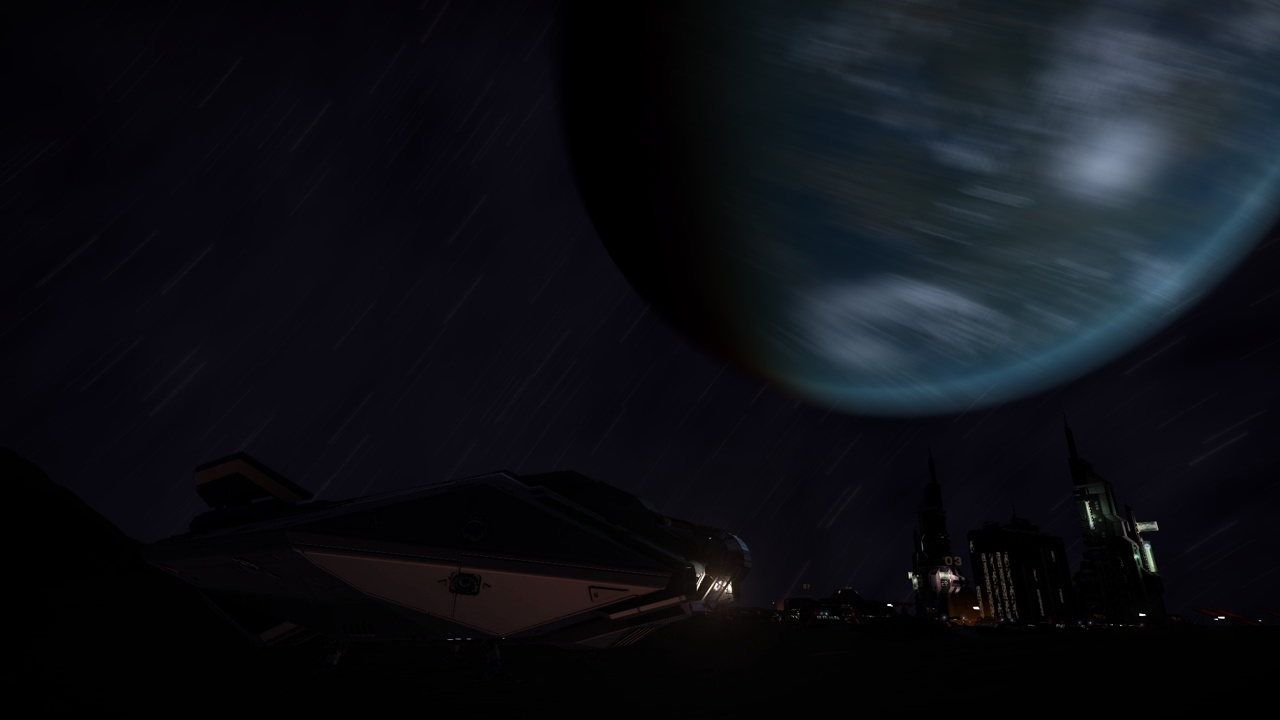
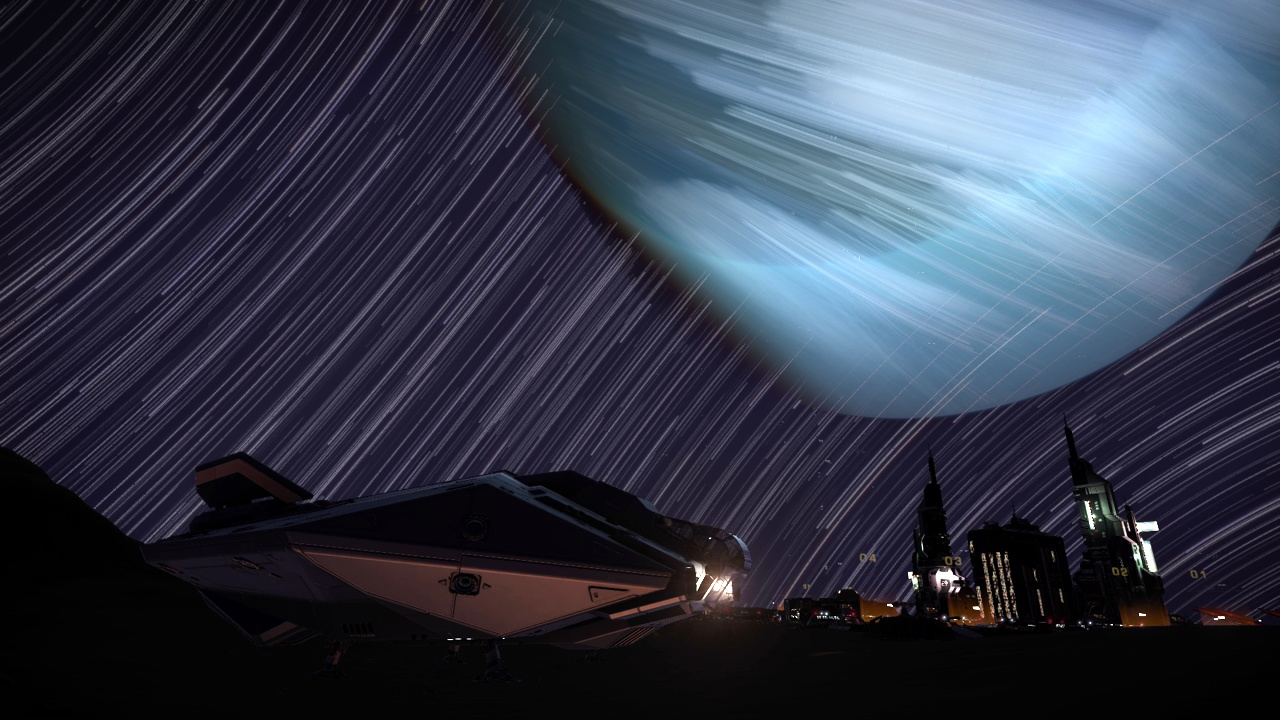
working with some values. needs cleanup

diff --git a/main.py b/main.py
@@ -1,7 +1,7 @@
 import cv2
 import numpy as np
 
-FINPUT = "starscape"
+FINPUT = "tlfull"
 
 vidcap = cv2.VideoCapture(FINPUT + ".mp4")
 
@@ -20,37 +20,46 @@ bt = [0.2, 0.7, 0.1]
 rs, frame = vidcap.read()
 
 timelapse = np.array(frame, dtype=np.float64)
-
+max_timelapse= timelapse
 
 #print(image)
 
 #print(np.average([cnv, cnv], axis=0))
 
 count = 1
-cl = 100
+framecounter = 1
+cl = 2000
 
 while rs:
     rs, frame = vidcap.read()
+    framecounter+=1
     if (rs):
         # timelapse += (255/(255**nfact))*np.power(np.array(frame, dtype=np.float64), nfact)
-        # timelapse = np.maximum(timelapse, np.array(frame, dtype=np.uint64))
+        max_timelapse = np.maximum(max_timelapse, np.array(frame, dtype=np.uint64))
         # timelapse += np.array(frame, dtype=np.float64)
         # timelapse += np.power(np.array(frame, dtype=np.float64), 1.23)
         # timelapse += np.clip(np.power(np.array(frame, dtype=np.float64), 1.23), 0, 255)
-        timelapse += np.clip(255*np.power(np.array(frame, dtype=np.float64)/255, 1.2), 0, 255)
-        # timelapse += np.clip(np.power(np.array(frame, dtype=np.float64), 1.23), 0, 255)
+        # timelapse += np.clip(255*np.power(np.array(frame, dtype=np.float64)/255, 1.2), 0, 255)
+        timelapse += np.clip(np.power(np.array(frame, dtype=np.float64), 1.10), 0, 255)
         for i in range(mfps-1):
             rs = vidcap.grab()
+            framecounter+=1
         #print('Frame read:', rs)
         count += 1
     if count > cl:
         rs = 0
-    if count % 100 == 0:
-        print (100 * count / fnum, "%")
+    if framecounter % 10 == 0:
+        print (100 * framecounter / fnum, "%")
+print ("100 %")
 
-timelapse = np.uint8(np.clip(timelapse, 0, 255*count) / count)
-#timelapse = np.uint8(timelapse)
+max_mult_factor = 0.45
 
-print(timelapse)
+timelapse = np.clip(timelapse, 0, 255*count) / count
 
-cv2.imwrite(FINPUT + ".jpg", timelapse)  # save frame as JPEG file
+final = np.clip(timelapse + max_timelapse*max_mult_factor,0,255)
+
+final = np.uint8(final)
+
+#print(timelapse)
+
+cv2.imwrite(FINPUT + ".jpg", final)  # save frame as JPEG file
